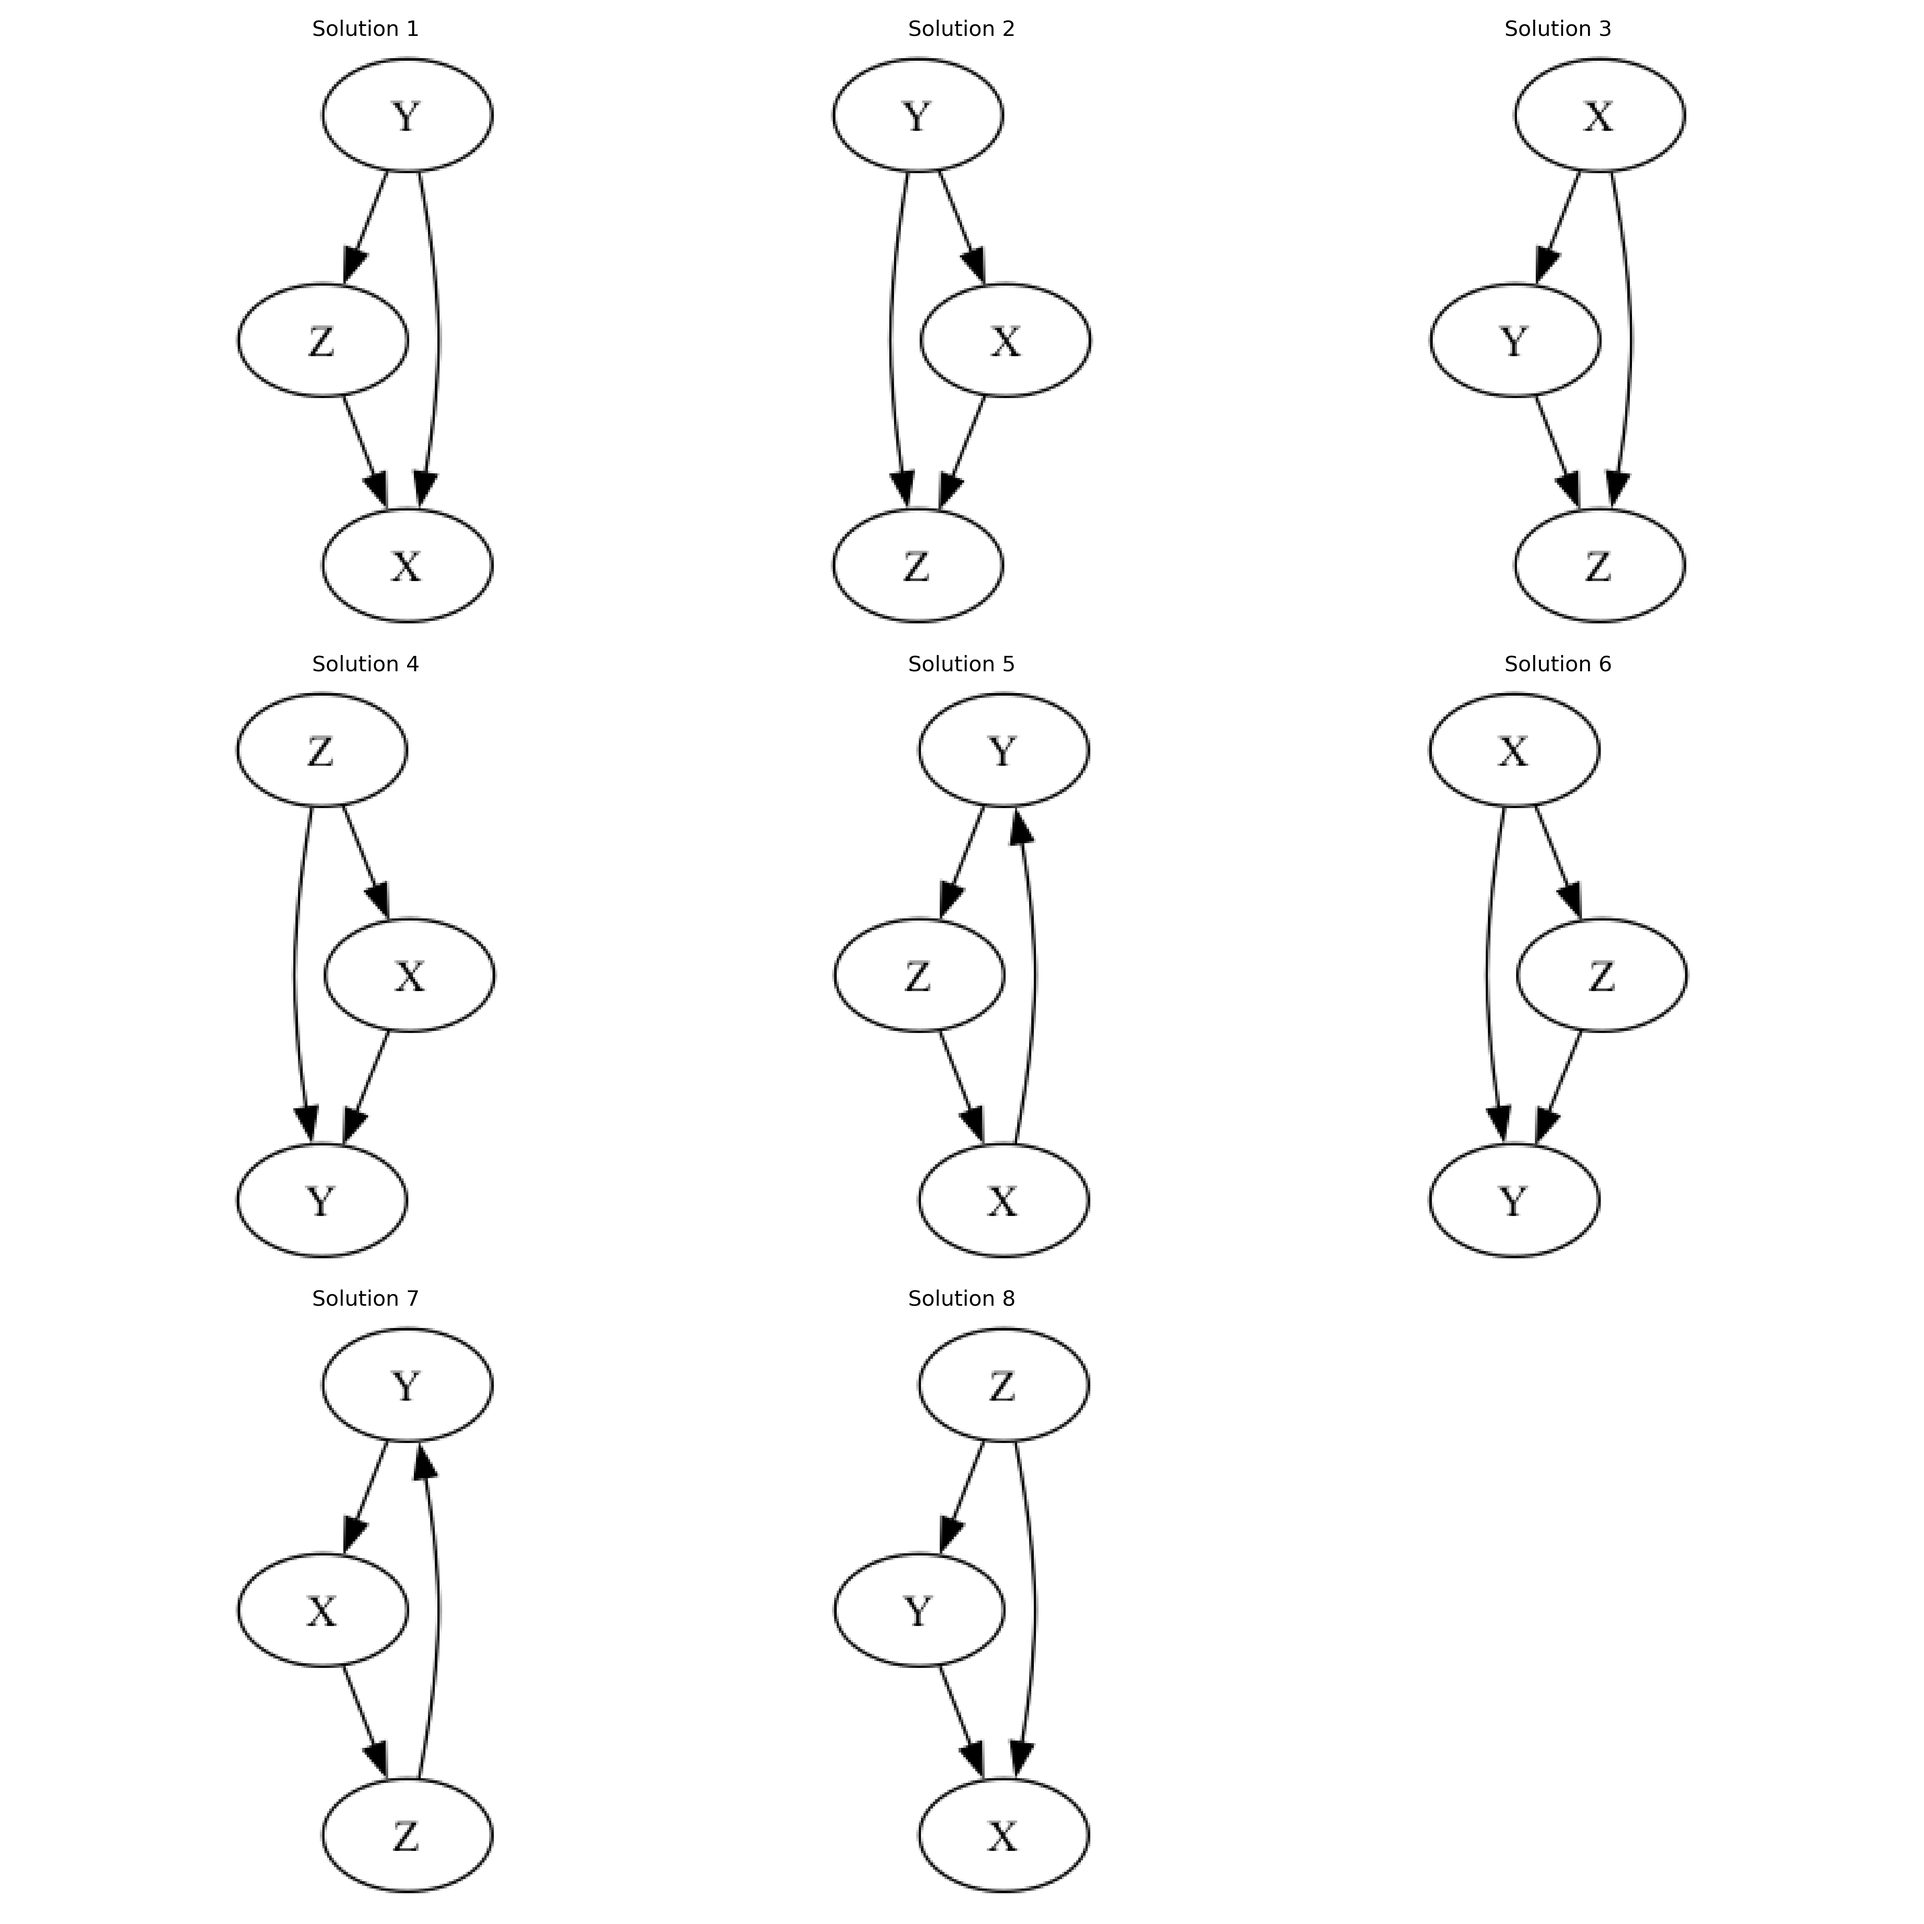
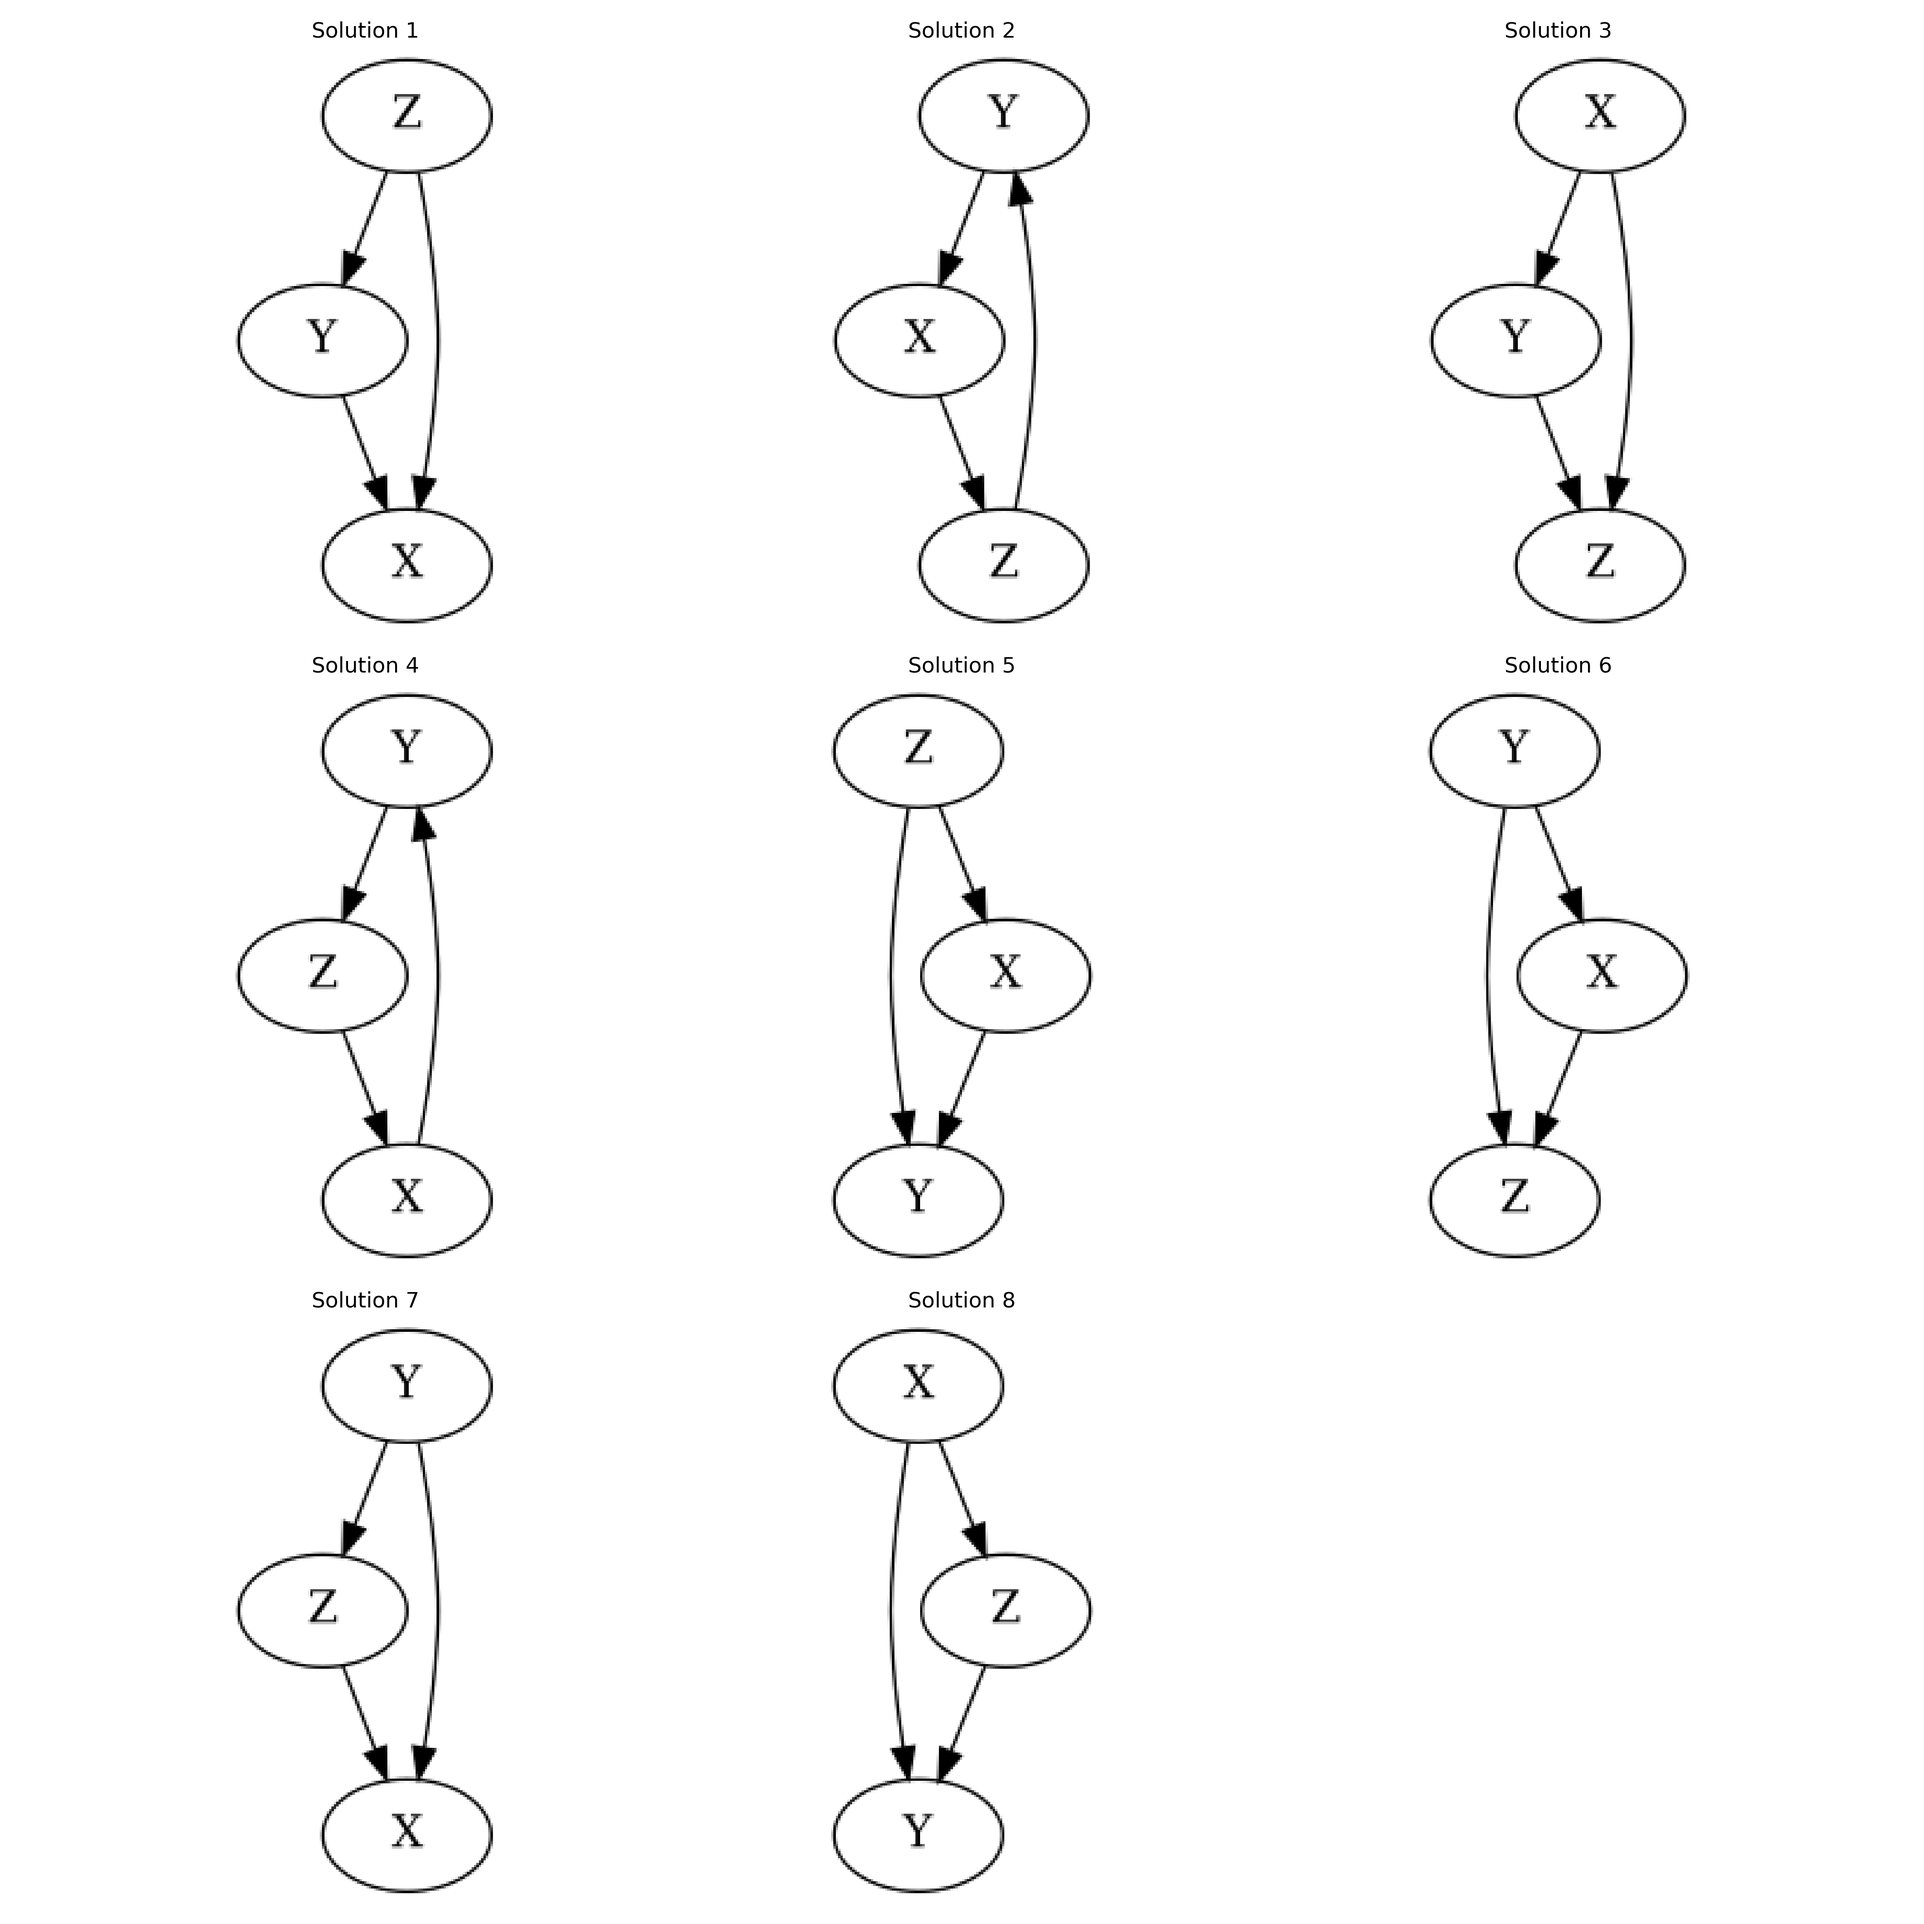
updated PC.py

diff --git a/PC.py b/PC.py
@@ -14,6 +14,7 @@ from utils import basic_causal_dataframe, getCausalRelationship, generate_graph_
 # SAT solvers
 from SAT.classical import solveClassicalSAT
 from SAT.quantum import solveQuantumSAT
+from SAT.fixedPointQuantum import solveFixedQuantunSAT
 from SAT.validateSolution import validate_all_solutions
 
 # set the seed for reproducibility
@@ -156,7 +157,8 @@ if logging: print(f"LOG: Classical SAT solver returned: {is_sat}\n")
 if logging: print(f"LOG: The model is: {classical_model}\n")
 
 # Get solutions from quantum SAT solver
-is_sat, quantum_solutions = solveQuantumSAT(new_cnf)
+# is_sat, quantum_solutions = solveQuantumSAT(new_cnf)
+is_sat, quantum_solutions = solveFixedQuantunSAT(new_cnf, 8, np.sqrt(0.1))
 
 # print(f"DEBUG: Quantum SAT solver returned: {quantum_solutions}\n")
 
